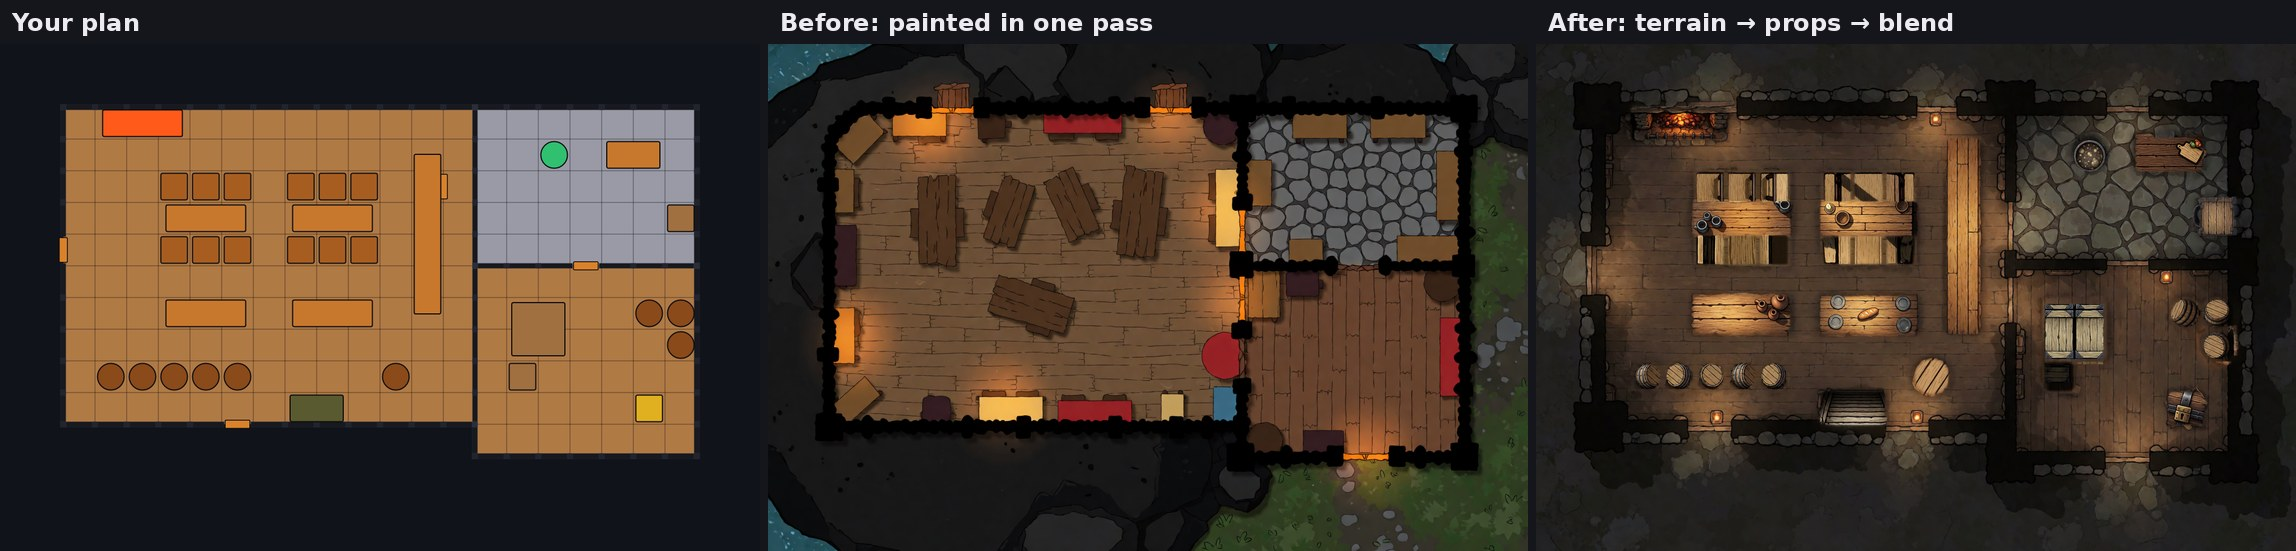
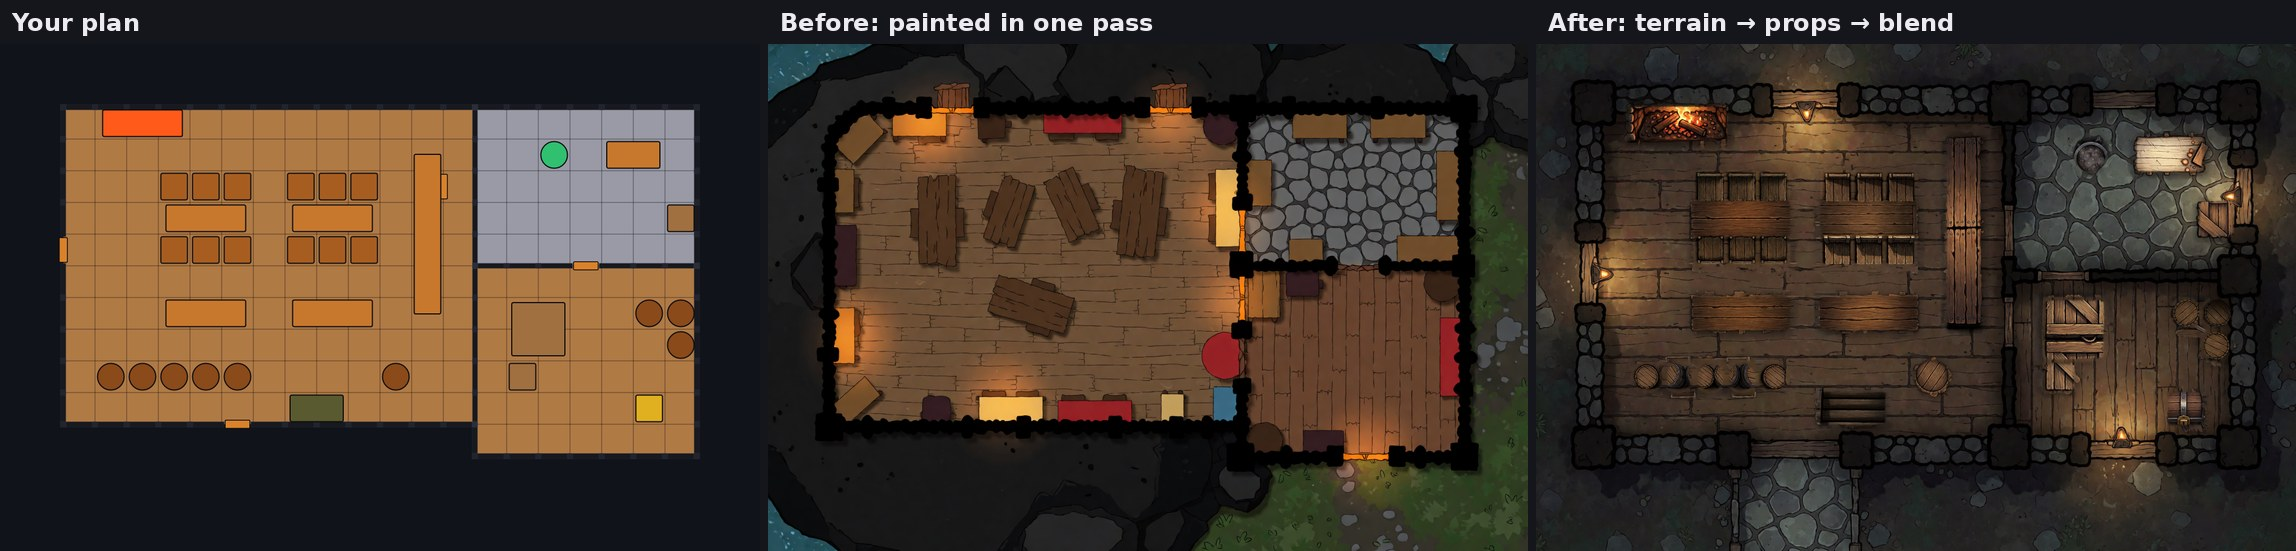
README: corrected tavern animation, second region demonstration (snow pass)
The tavern pictures now come from the approved two-step result (crisp chairs)
with the app's blend pass applied as the third step; the snow pass shows the
top-down camera, rivers, roads, bridge and structures along their drawn shapes.

Changed region(s): [[0.6494, 0.0617, 1.0, 1.0]]

diff --git a/README.md b/README.md
@@ -181,7 +181,7 @@ The editor autosaves and edits through the same ops as the AI's `edit_map`, so y
 **Two ways to paint a battle map** — choose once in **⚙ Settings → Map painting** (it is a setting of *this computer*, because it depends on how fast your graphics card is). Both start from the same plan:
 
 <div align="center">
-<img src="docs/img/battle-before-after.jpg" alt="The same tavern plan: the plan, painted in one pass (tables drift, turn and merge), and painted in steps (every table, chair and barrel where the plan put it, with shadows)" width="100%">
+<img src="docs/img/battle-before-after.jpg" alt="The same tavern plan: the plan, painted in one pass (tables drift, turn and merge), and painted in steps (every table, chair and barrel where the plan put it, with soft shadows)" width="100%">
 </div>
 
 <sub>One tavern, one plan, painted by the app itself: left the plan in the editor, in the middle the **quick** way (a single pass: the furniture drifts, turns and merges), right the **precise** way (terrain first, then every prop group into its place, then a blend pass that settles the objects into the floor).</sub>
@@ -203,6 +203,16 @@ The editor autosaves and edits through the same ops as the AI's `edit_map`, so y
 
 <div align="center">
 <img src="docs/img/region-two-step.gif" alt="Painting a region map in steps: the plan, the land, the river, the roads and the bridge, then every structure appears in its area, then the blend" width="85%">
+</div>
+
+**A second one — a snowy mountain pass** (the *top-down* camera, so the mountains are painted as relief seen from above instead of side-on icons): the river, the road with its bridge and the footpath follow the drawn lines, and the fort, the camps, the towers and the cave sit in their areas.
+
+<div align="center">
+<img src="docs/img/region2-before-after.jpg" alt="A second region plan, a snowy mountain pass: the plan, painted in one pass (a different landscape, the river and the road drift) and painted in steps (the river, road and bridge follow the lines, the fort, camps and towers sit in their areas)" width="100%">
+</div>
+
+<div align="center">
+<img src="docs/img/region2-two-step.gif" alt="Painting the mountain pass in steps: the plan, the land, the river, the road and bridge, then every structure appears in its area, then the blend" width="85%">
 </div>
 
 <sub>The precise way in motion: the plan, the empty place only (step 1 — you accept it or paint another), then the props, group by group, each into exactly its spot (step 2).</sub>
